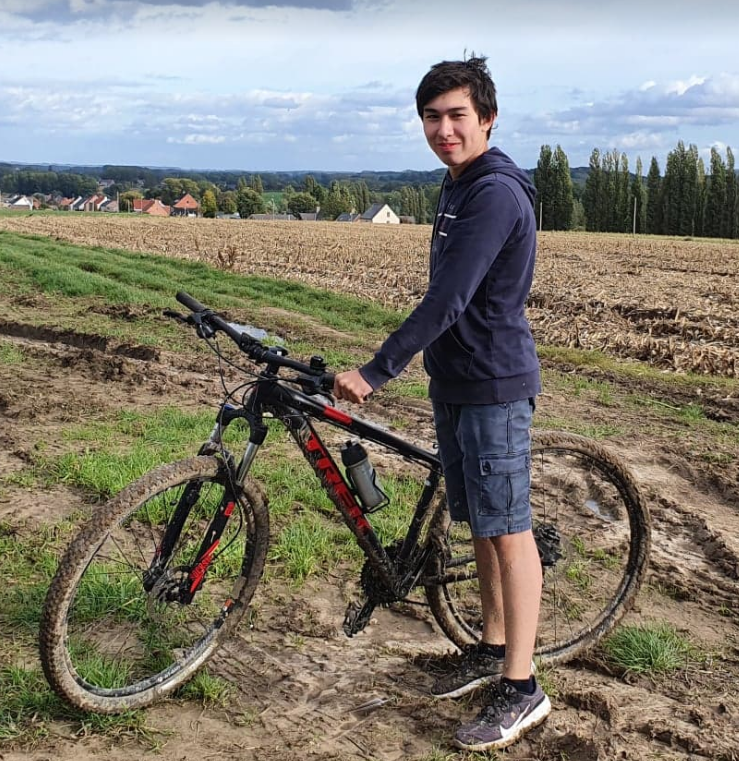
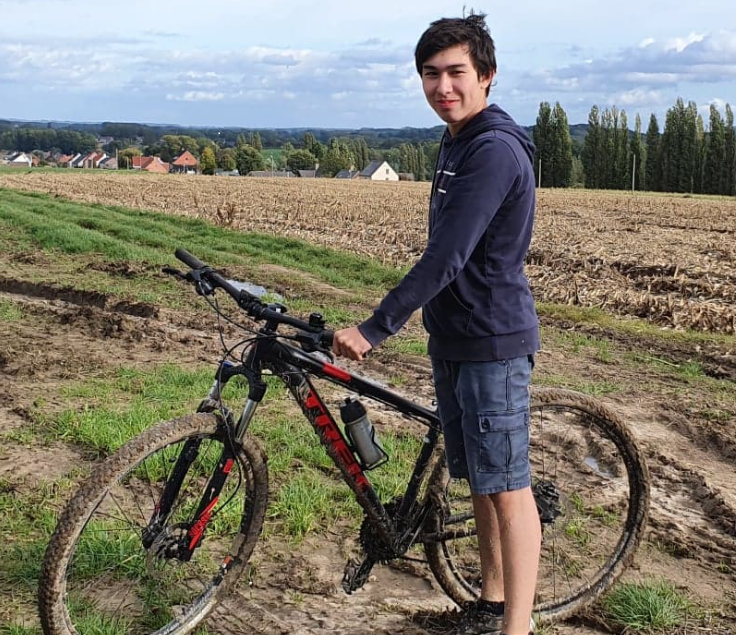
e

diff --git a/index.html b/index.html
@@ -94,7 +94,7 @@
 
         <div class="row">
           <div class="col-lg-4" data-aos="fade-right">
-            <img src="assets/img/profile-img.jpg" class="img-fluid" alt="">
+            <img src="assets/img/my image.png" class="img-fluid" alt="" height="225" width="225">
           </div>
           <div class="col-lg-8 pt-4 pt-lg-0 content" data-aos="fade-left">
             <h3>elektriciteit-elektronica</h3>
@@ -127,117 +127,8 @@
 
     <!-- ======= Facts Section ======= -->
     <section id="facts" class="facts">
-      <div class="container">
-
-        <div class="section-title">
-          <h2>Hobby's</h2>
-          <p>Mijn grootste hobby is voetbal, ik voetbal in Sk Munkzwalm U17</p>
-        </div>
-
-        <div class="row no-gutters">
-
-          <div class="col-lg-3 col-md-6 d-md-flex align-items-md-stretch" data-aos="fade-up">
-            <div class="count-box">
-              <i class="icofont-simple-smile"></i>
-              <span data-toggle="counter-up">232</span>
-              <p><strong>Happy Clients</strong> consequuntur quae</p>
-            </div>
-          </div>
-
-          <div class="col-lg-3 col-md-6 d-md-flex align-items-md-stretch" data-aos="fade-up" data-aos-delay="100">
-            <div class="count-box">
-              <i class="icofont-document-folder"></i>
-              <span data-toggle="counter-up">521</span>
-              <p><strong>Projects</strong> adipisci atque cum quia aut</p>
-            </div>
-          </div>
-
-          <div class="col-lg-3 col-md-6 d-md-flex align-items-md-stretch" data-aos="fade-up" data-aos-delay="200">
-            <div class="count-box">
-              <i class="icofont-live-support"></i>
-              <span data-toggle="counter-up">1,463</span>
-              <p><strong>Hours Of Support</strong> aut commodi quaerat</p>
-            </div>
-          </div>
-
-          <div class="col-lg-3 col-md-6 d-md-flex align-items-md-stretch" data-aos="fade-up" data-aos-delay="300">
-            <div class="count-box">
-              <i class="icofont-users-alt-5"></i>
-              <span data-toggle="counter-up">15</span>
-              <p><strong>Hard Workers</strong> rerum asperiores dolor</p>
-            </div>
-          </div>
-
-        </div>
-
       </div>
     </section><!-- End Facts Section -->
-
-    <!-- ======= Skills Section ======= -->
-    <section id="skills" class="skills section-bg">
-      <div class="container">
-
-        <div class="section-title">
-          <h2>skills</h2>
-          <p>Magnam dolores commodi suscipit. Necessitatibus eius consequatur ex aliquid fuga eum quidem. Sit sint consectetur velit. Quisquam quos quisquam cupiditate. Et nemo qui impedit suscipit alias ea. Quia fugiat sit in iste officiis commodi quidem hic quas.</p>
-        </div>
-
-        <div class="row skills-content">
-
-          <div class="col-lg-6" data-aos="fade-up">
-
-            <div class="progress">
-              <span class="skill">HTML <i class="val">100%</i></span>
-              <div class="progress-bar-wrap">
-                <div class="progress-bar" role="progressbar" aria-valuenow="100" aria-valuemin="0" aria-valuemax="100"></div>
-              </div>
-            </div>
-
-            <div class="progress">
-              <span class="skill">CSS <i class="val">90%</i></span>
-              <div class="progress-bar-wrap">
-                <div class="progress-bar" role="progressbar" aria-valuenow="90" aria-valuemin="0" aria-valuemax="100"></div>
-              </div>
-            </div>
-
-            <div class="progress">
-              <span class="skill">JavaScript <i class="val">75%</i></span>
-              <div class="progress-bar-wrap">
-                <div class="progress-bar" role="progressbar" aria-valuenow="75" aria-valuemin="0" aria-valuemax="100"></div>
-              </div>
-            </div>
-
-          </div>
-
-          <div class="col-lg-6" data-aos="fade-up" data-aos-delay="100">
-
-            <div class="progress">
-              <span class="skill">PHP <i class="val">80%</i></span>
-              <div class="progress-bar-wrap">
-                <div class="progress-bar" role="progressbar" aria-valuenow="80" aria-valuemin="0" aria-valuemax="100"></div>
-              </div>
-            </div>
-
-            <div class="progress">
-              <span class="skill">WordPress/CMS <i class="val">90%</i></span>
-              <div class="progress-bar-wrap">
-                <div class="progress-bar" role="progressbar" aria-valuenow="90" aria-valuemin="0" aria-valuemax="100"></div>
-              </div>
-            </div>
-
-            <div class="progress">
-              <span class="skill">Photoshop <i class="val">55%</i></span>
-              <div class="progress-bar-wrap">
-                <div class="progress-bar" role="progressbar" aria-valuenow="55" aria-valuemin="0" aria-valuemax="100"></div>
-              </div>
-            </div>
-
-          </div>
-
-        </div>
-
-      </div>
-    </section><!-- End Skills Section -->
 
     <!-- ======= Resume Section ======= -->
     <section id="resume" class="resume">
@@ -328,7 +219,7 @@
 
           <div class="col-lg-4 col-md-6 portfolio-item filter-app">
             <div class="portfolio-wrap">
-              <img src="assets/img/Stijn .png" height="75%" width="100%" class="img-fluid" alt="">
+              <img src="assets/img/Stijn .png" height="255" width="255" class="img-fluid" alt="">
               <div class="portfolio-links">
                 <a href="assets/img/Stijn .png" data-gall="portfolioGallery" class="venobox" title="App 1"><i class="bx bx-plus"></i></a>
                 <a href="portfolio-details.html" title="More Details"><i class="bx bx-link"></i></a>
@@ -338,7 +229,7 @@
 
           <div class="col-lg-4 col-md-6 portfolio-item filter-web">
             <div class="portfolio-wrap">
-              <img src="assets/img/jarne.jpg"  class="img-fluid" alt="">
+              <img src="assets/img/jarne.jpg"  class="img-fluid" alt="" heigth="400" width="300">
               <div class="portfolio-links">
                 <a href="assets/img/jarne.jpg" data-gall="portfolioGallery" class="venobox" title="Web 3"><i class="bx bx-plus"></i></a>
                 <a href="portfolio-jarnedetails.html" title="More Details"><i class="bx bx-link"></i></a>
@@ -348,7 +239,7 @@
 
           <div class="col-lg-4 col-md-6 portfolio-item filter-card">
             <div class="portfolio-wrap">
-              <img src="assets/img/yenten.png" class="img-fluid" alt="">
+              <img src="assets/img/yenten.png" class="img-fluid" alt="" height="220" width="220">
               <div class="portfolio-links">
                 <a href="assets/img/yenten.png" data-gall="portfolioGallery" class="venobox" title="App 2"><i class="bx bx-plus"></i></a>
                 <a href="portfolio-yentendetails.html" title="More Details"><i class="bx bx-link"></i></a>

diff --git a/portfolio-details.html b/portfolio-details.html
@@ -96,9 +96,9 @@
         <div class="portfolio-details-container">
 
           <div class="owl-carousel portfolio-details-carousel">
-            <img src="assets/img/Stijn .png"  width="25%" height="25%" class="img-fluid" alt="">
-            <img src="assets/img/weerstation.jfif" width="125%" height="125%" class="img-fluid" alt="">
-            <img src="assets/img/ampelflamp.jpg" class="img-fluid" alt="">
+            <img src="assets/img/Stijn .png"  width="10" height="10" class="img-fluid" >
+            <img src="assets/img/sensoren.jpg" width="10" height="10"  class="img-fluid">
+            <img src="assets/img/arduino.jpg" class="img-fluid" width="10" height="10">
           </div>
 
           <div class="portfolio-info">

diff --git a/portfolio-jarnedetails.html b/portfolio-jarnedetails.html
@@ -97,8 +97,8 @@
 
           <div class="owl-carousel portfolio-details-carousel">
             <img src="assets/img/jarne.jpg"   class="img-fluid" alt="">
-            <img src="assets/img/jarne installateur.jfif"  class="img-fluid" alt="">
-            <img src="assets/img/ampelflamp.jpg" class="img-fluid" alt="">
+            <img src="assets/img/zonnepanelen.jpg"  class="img-fluid" alt="">
+            <img src="assets/img/arduino.jpg" class="img-fluid" alt="">
           </div>
 
           <div class="portfolio-info">

diff --git a/assets/css/style.css b/assets/css/style.css
@@ -434,6 +434,7 @@ section {
   margin-top: 20px;
   margin-bottom: 20px;
   color: #050d18;
+
 }
 
 .resume .resume-item {
@@ -965,6 +966,11 @@ section {
 --------------------------------------------------------------*/
 .portfolio-details {
   padding-top: 40px;
+}
+
+.portfolio-details-container .img-fluid{
+  max-width: 60%;
+  max-height: 60%;
 }
 
 .portfolio-details .portfolio-details-container {
